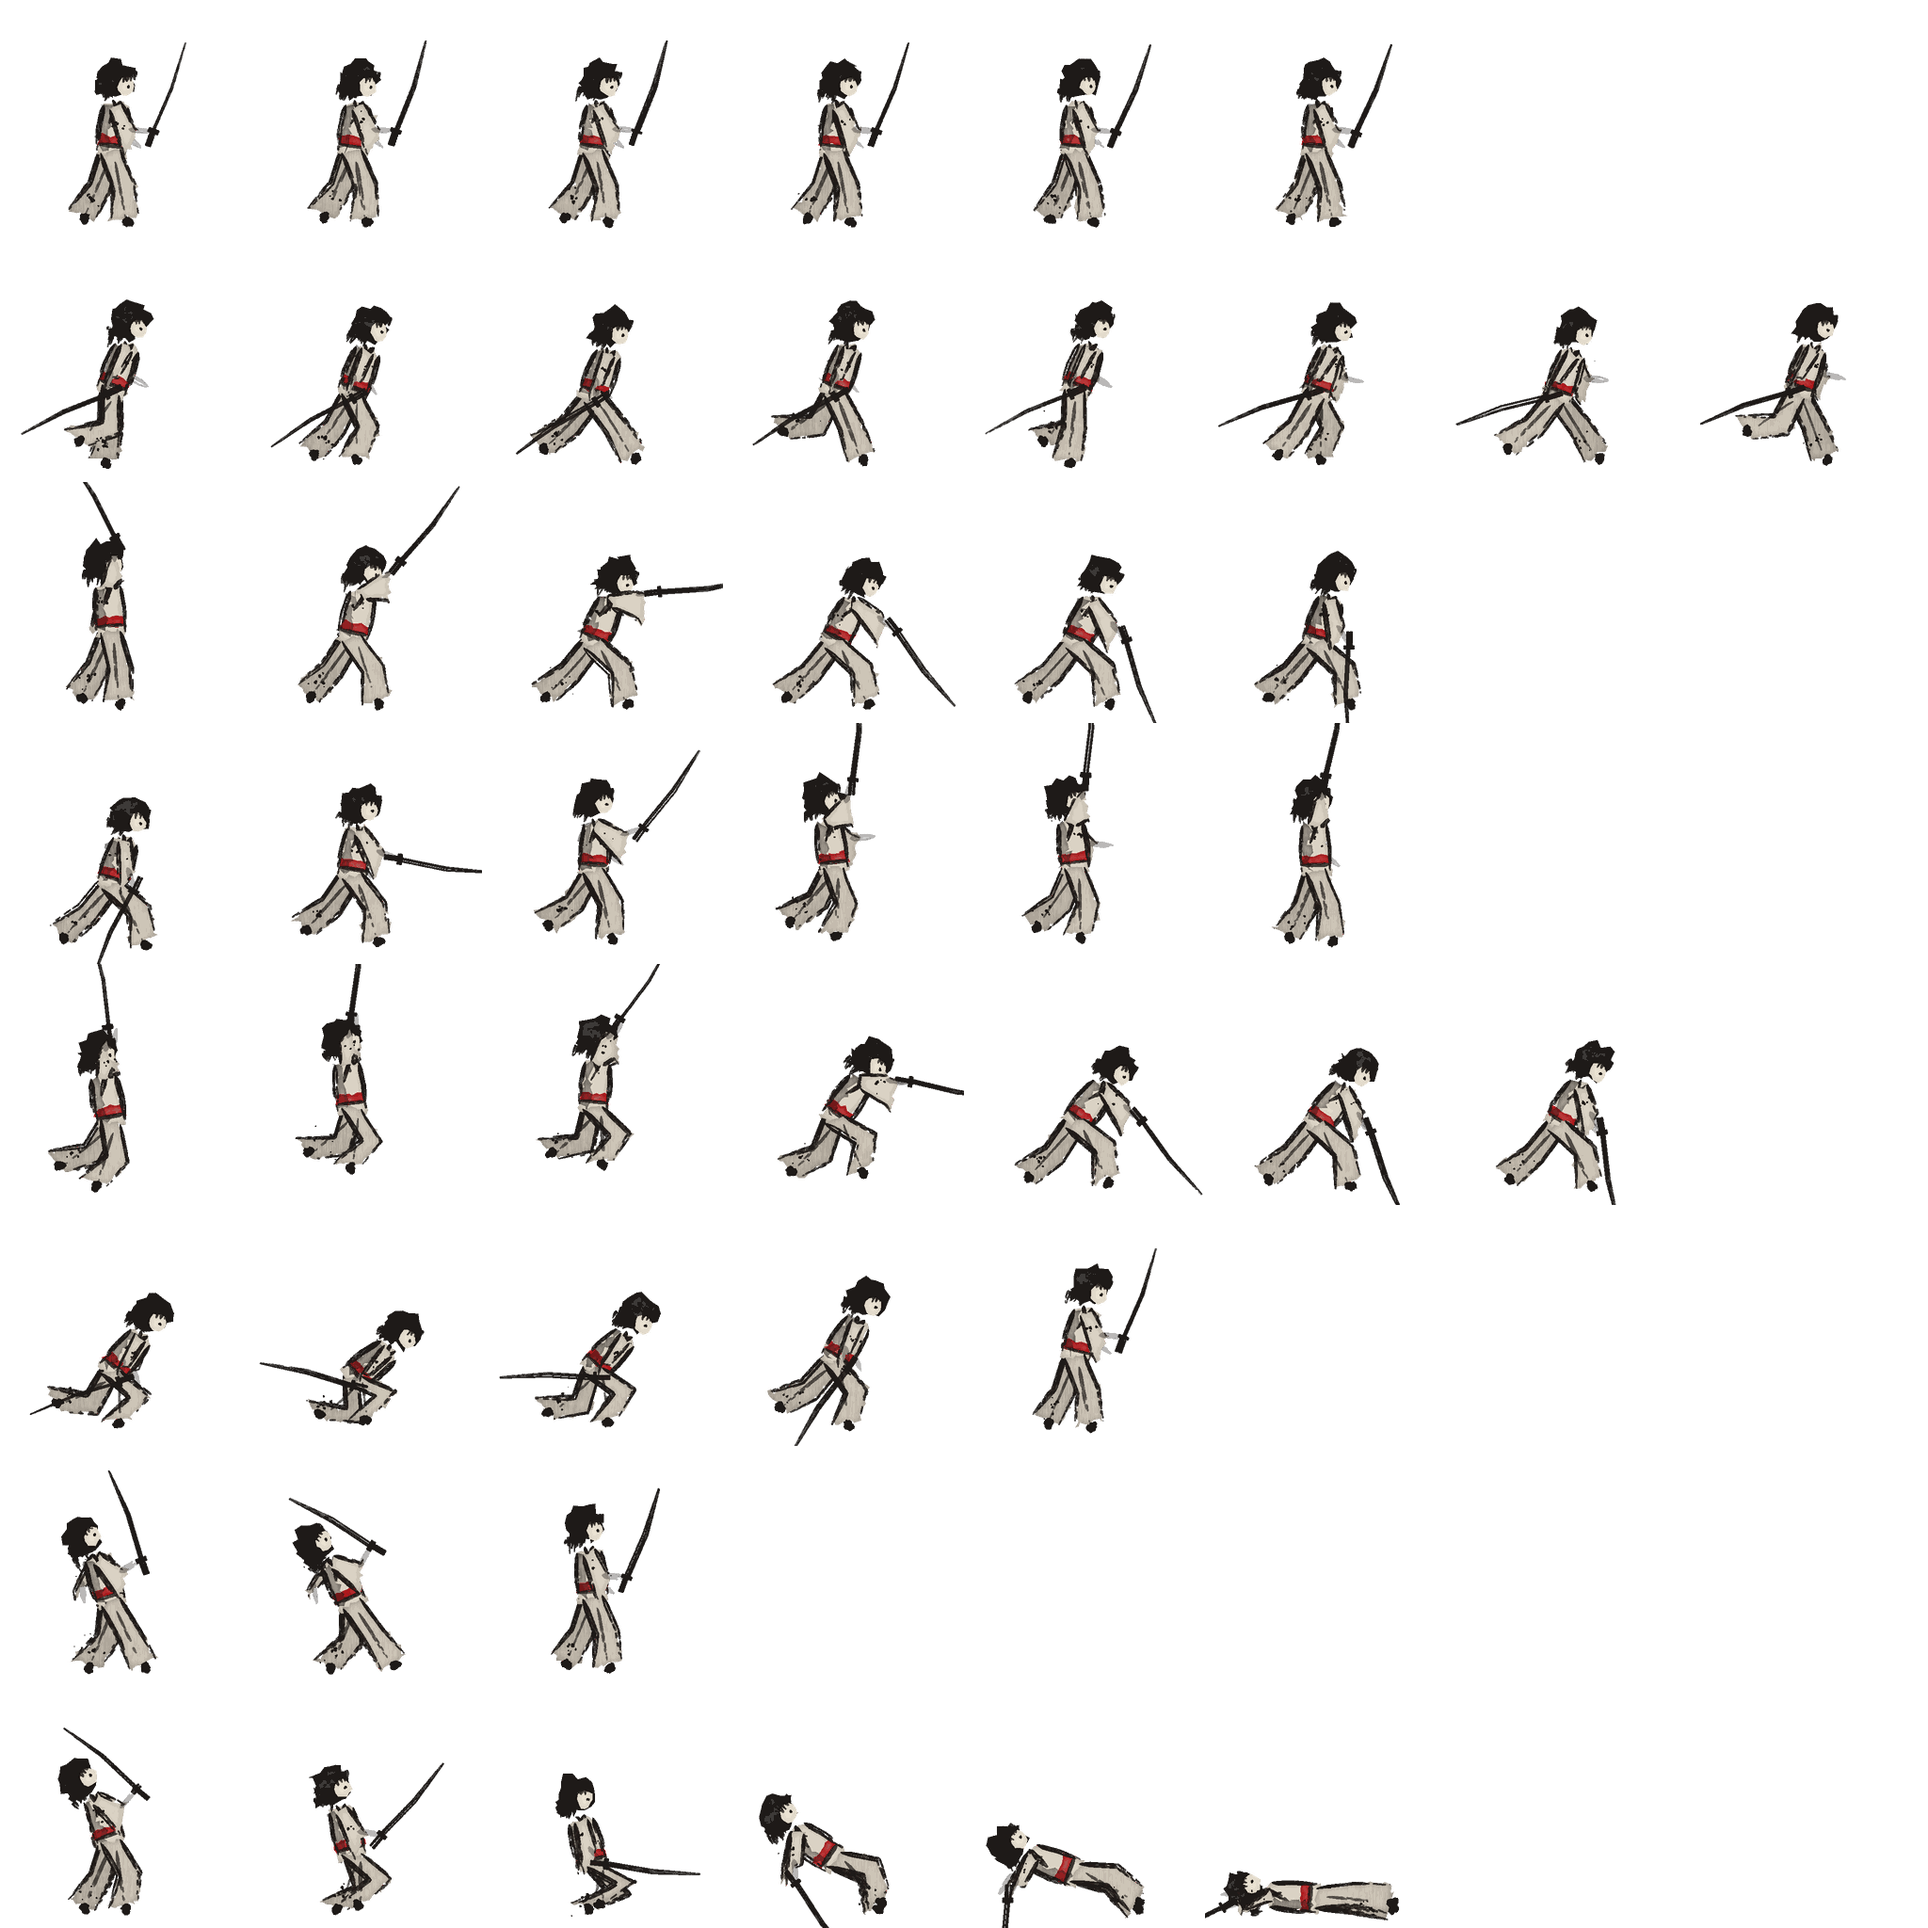
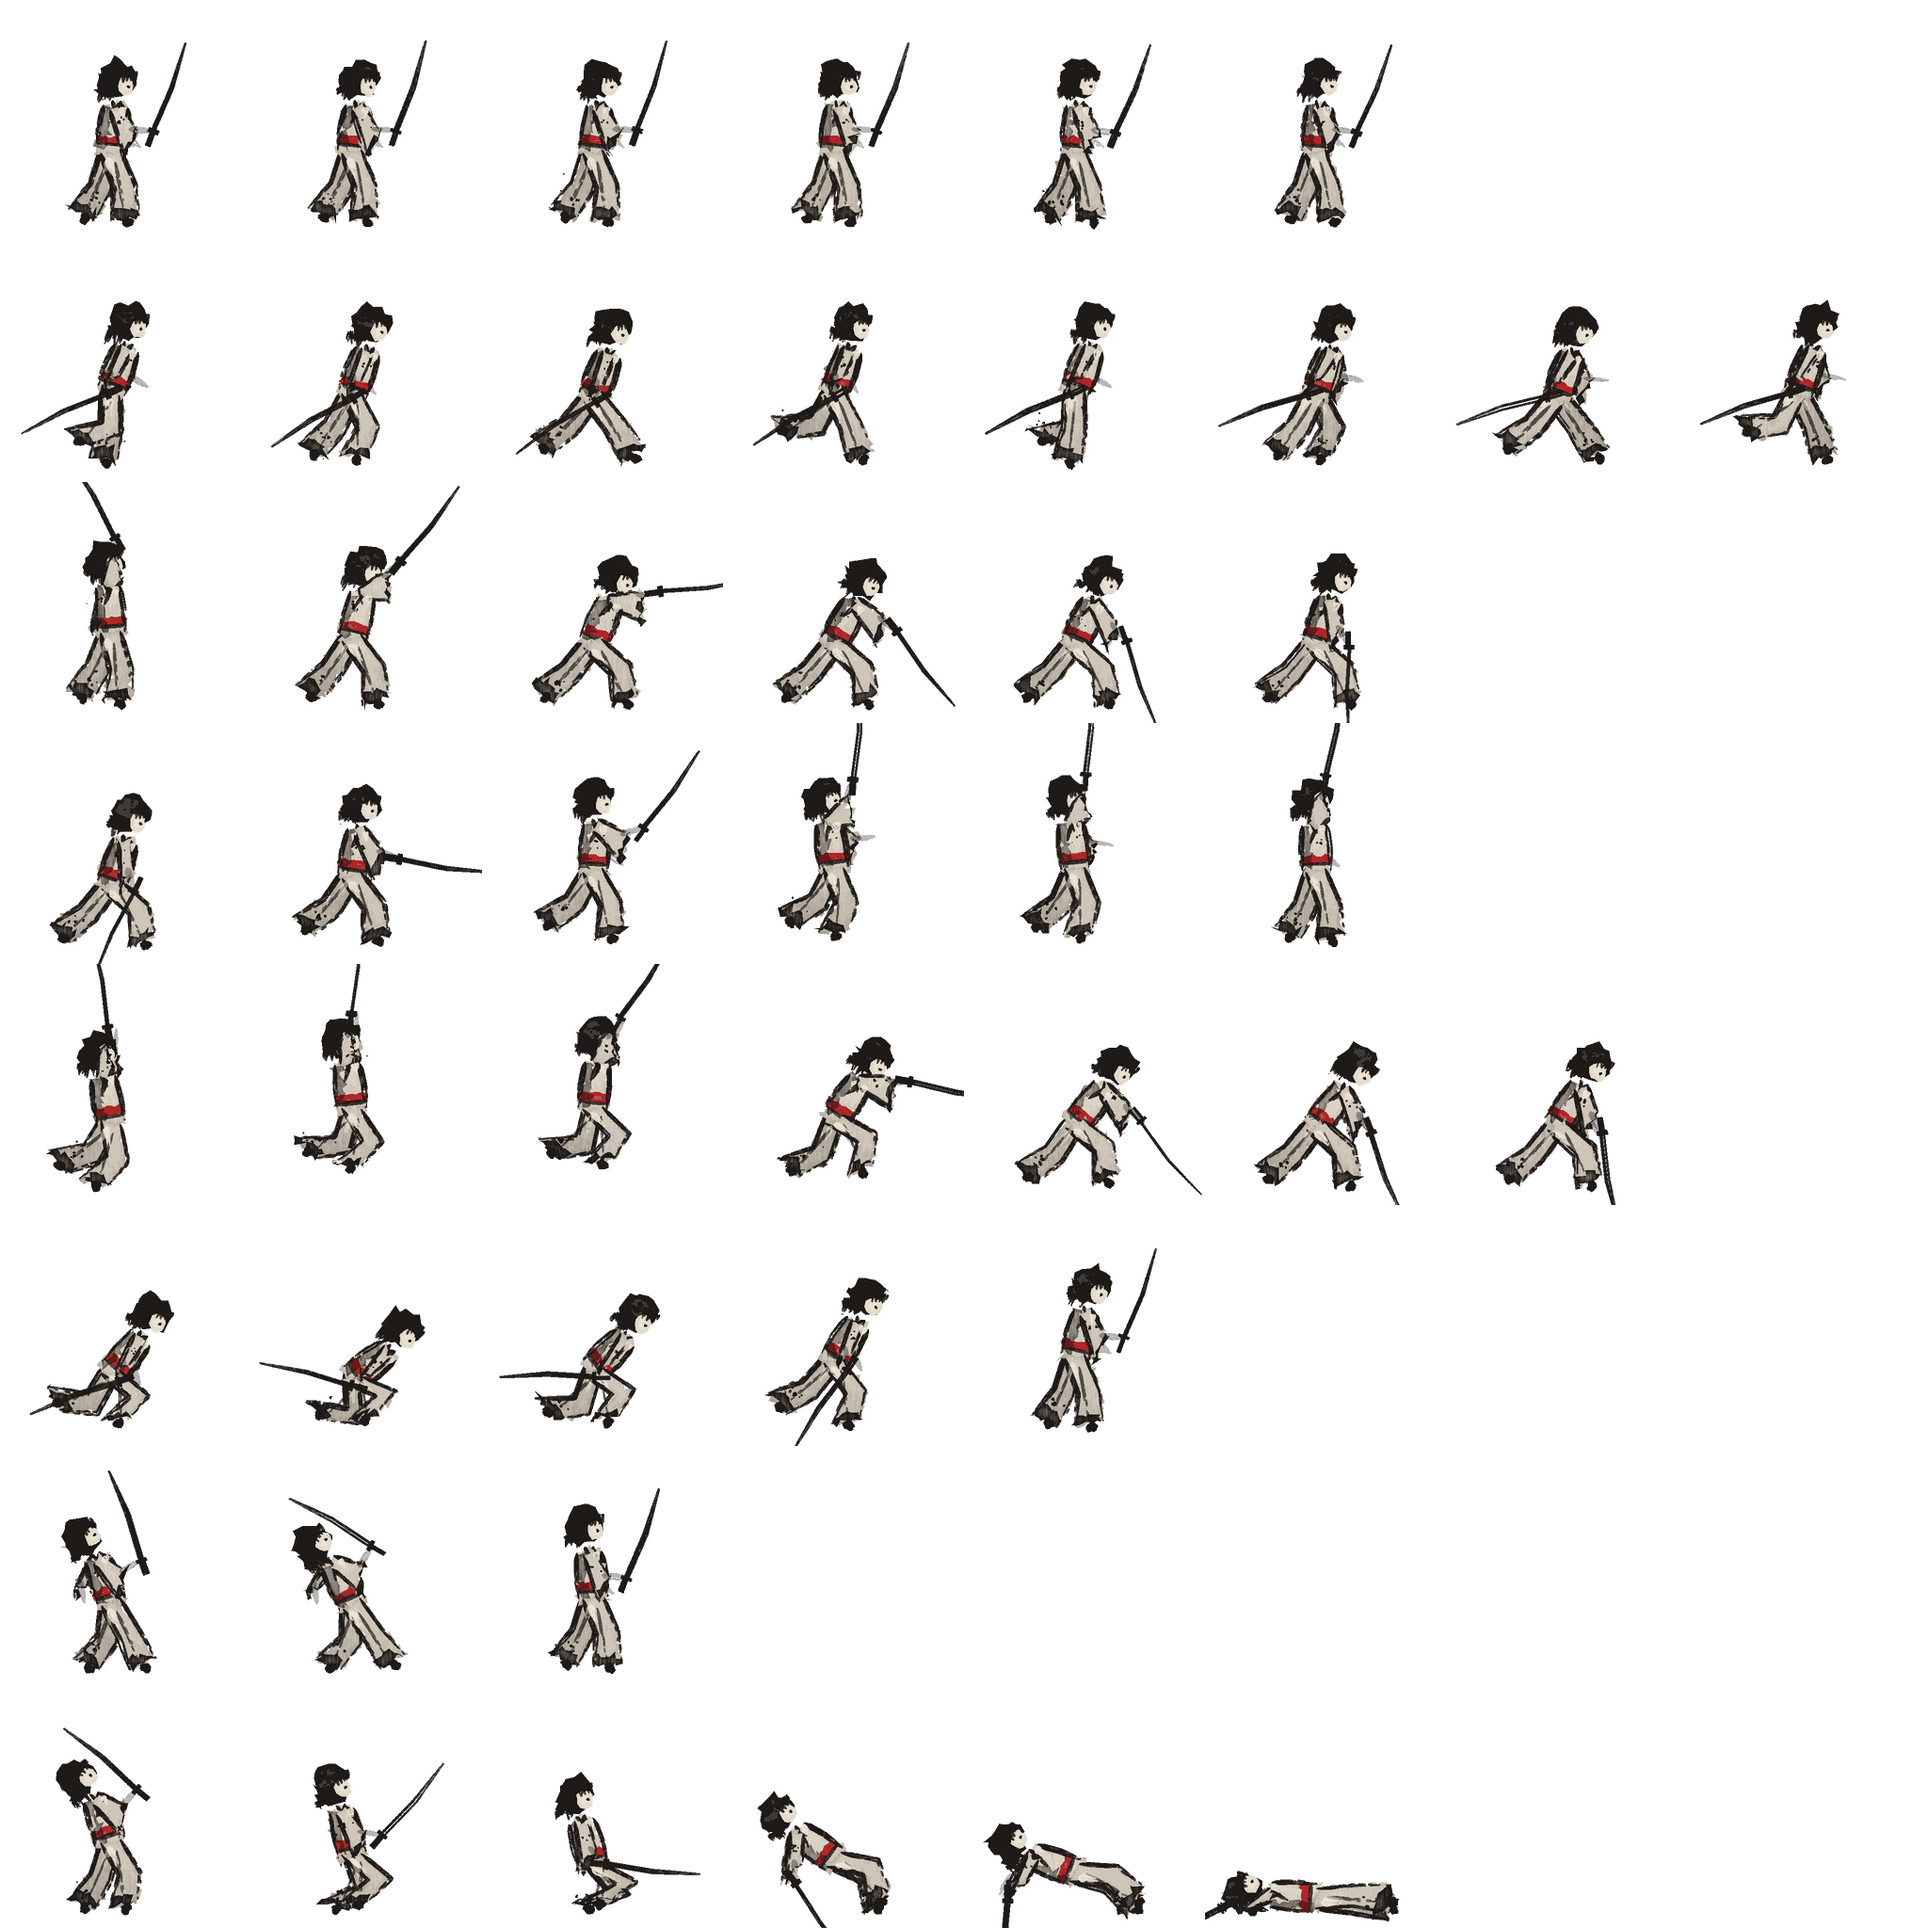
Godot take C35: player ink-wash rebake - pale wash + bold hem/cuff accents, dry paper highlights, streaky wet edges (brush grad + fill strokes)

diff --git a/godot/tools/figures.py b/godot/tools/figures.py
@@ -107,8 +107,8 @@ def draw_player(c, J, pose):
     hipL = J['hip'] + n * 15 * tw; hipR = J['hip'] - n * 15 * tw
     shL = J['sh'] + n * 13 * tw; shR = J['sh'] - n * 13 * tw
     body = [tuple(shL), tuple(J['neck'] + n * 4), tuple(shR), tuple(hipR + (hipR - shR) * 0.1), tuple(hipL + (hipL - shL) * 0.1)]
-    c.wash(body, dens=0.2, edge=0.6, layer='fill', rag=1.2)
-    c.wash([tuple(shR), tuple(lerp(shR, hipR, 0.9)), tuple(lerp(J['hip'], hipR, 0.3)), tuple(lerp(J['sh'], shR, 0.4))], dens=0.35, edge=0.2, rag=2, texture=0.6, streak_dir=1)
+    c.wash(body, dens=0.3, edge=0.45, layer='fill', rag=1.8, texture=0.6, streak_dir=1, grad=0.25)
+    c.wash([tuple(shR), tuple(lerp(shR, hipR, 0.9)), tuple(lerp(J['hip'], hipR, 0.3)), tuple(lerp(J['sh'], shR, 0.4))], dens=0.45, edge=0.2, rag=2.2, texture=0.7, streak_dir=1)
     c.stroke([tuple(shL), tuple(lerp(shL, hipL, 0.5) + n * 1.5), tuple(hipL)], w=3.6, dry=0.6)
     c.stroke([tuple(shR), tuple(lerp(shR, hipR, 0.5) - n * 1.5), tuple(hipR)], w=3.2, dry=0.7)
     if not back:
@@ -171,9 +171,13 @@ def draw_player(c, J, pose):
         if ay > 0.3:
             c.dab(*(fc - np.array([4.5, 2]) + fwd * 1), 1.3, ink=0.9)
     # front arm sleeve
-    draw_sleeve(c, J['f_sh'], J['f_el'], J['f_hand'], 0.24)
+    draw_sleeve(c, J['f_sh'], J['f_el'], J['f_hand'], 0.3)
     # hand
     c.dab(*J['f_hand'], 3.2, ink=0.25)
+    # dry paper highlights riding the wash (reference figures keep bare-paper streaks)
+    c.stroke([tuple(J['sh'] + n * 8), tuple(lerp(J['sh'], J['chest'], 0.7) + n * 9)], w=5.0, dry=0.8, taper=(0.1, 0.7), layer='fill')
+    c.stroke([tuple(lerp(J['hip'], J['f_knee'], 0.15) + perp(J['hip'], J['f_foot']) * 6), tuple(lerp(J['hip'], J['f_knee'], 0.75) + perp(J['hip'], J['f_foot']) * 7)], w=5.0, dry=0.9, taper=(0.15, 0.7), layer='fill')
+    c.stroke([tuple(lerp(J['hip'], J['b_knee'], 0.2)), tuple(lerp(J['hip'], J['b_knee'], 0.7))], w=4.0, dry=0.85, taper=(0.15, 0.7), layer='fill', ink=0.6)
     # wet-ink spatter clinging to the silhouette (reference figures are splashed, not clean)
     c.splatter(*(lerp(J['hip'], J['b_foot'], 0.7)), 10, 7, 2.2, ink=0.9)
     c.splatter(*(lerp(J['sh'], J['b_el'], 0.6)), 8, 5, 1.8, ink=0.9)
@@ -196,7 +200,9 @@ def draw_sleeve(c, sh, el, hand, shade):
     e2 = el - perp(sh, el) * 8 + drop * 4
     h2 = lerp(el, hand, 0.35)
     poly = [tuple(s1), tuple(e1), tuple(e1 + drop * 6 + (h2 - el) * 0.4), tuple(h2), tuple(e2), tuple(s2)]
-    c.wash(poly, dens=shade, edge=0.45, layer='fill', rag=1.4)
+    c.wash(poly, dens=min(0.9, shade + 0.08), edge=0.4, layer='fill', rag=2.0, texture=0.6, streak_dir=1, grad=0.2)
+    # bold dark cuff accent (reference: near-black shapes at the cuffs)
+    c.wash([tuple(e1), tuple(e1 + drop * 6 + (h2 - el) * 0.4), tuple(h2), tuple(lerp(e1, h2, 0.45) - drop * 4)], dens=0.85, edge=0.3, rag=2.2, texture=0.5, streak_dir=1)
     c.stroke([tuple(s1), tuple(e1), tuple(e1 + drop * 6 + (h2 - el) * 0.4)], w=3.0, dry=0.65)
     c.stroke([tuple(s2), tuple(e2), tuple(h2)], w=2.4, dry=0.75)
     c.stroke([tuple(el), tuple(hand)], w=4.0, ink=0.35, dry=0.5)
@@ -205,7 +211,9 @@ def draw_hakama_leg(c, hip, knee, foot, shade):
     n = perp(hip, foot)
     a = hip; b = knee; f = foot
     poly = [tuple(a + n * 11), tuple(b + n * 12), tuple(f + n * 15 + np.array([0, -6])), tuple(f - n * 15 + np.array([0, -6])), tuple(b - n * 11), tuple(a - n * 10)]
-    c.wash(poly, dens=shade, edge=0.5, layer='fill', rag=1.5, streak_dir=1)
+    c.wash(poly, dens=shade, edge=0.45, layer='fill', rag=1.9, texture=0.6, streak_dir=1, grad=0.22)
+    # bold dark hem accent (reference: near-black dry-brush shapes at the hakama hem)
+    c.wash([tuple(lerp(b, f, 0.55) + n * 13), tuple(f + n * 15 + np.array([0, -6])), tuple(f - n * 15 + np.array([0, -6])), tuple(lerp(b, f, 0.6) - n * 6)], dens=0.85, edge=0.3, rag=2.2, texture=0.55, streak_dir=1)
     c.stroke([tuple(a + n * 11), tuple(b + n * 12), tuple(f + n * 15 + np.array([0, -6]))], w=3.4, dry=0.6)
     c.stroke([tuple(a - n * 10), tuple(b - n * 11), tuple(f - n * 15 + np.array([0, -6]))], w=2.6, dry=0.75)
     # pleat

diff --git a/godot/tools/brush.py b/godot/tools/brush.py
@@ -44,7 +44,7 @@ class Canvas:
                 out.append((p[0] + self.rng.normal(0, amt), p[1] + self.rng.normal(0, amt)))
         return out
 
-    def wash(self, poly, dens=0.5, edge=0.35, rag=1.6, texture=0.45, layer='ink', streak_dir=None):
+    def wash(self, poly, dens=0.5, edge=0.35, rag=1.6, texture=0.45, layer='ink', streak_dir=None, grad=0.0):
         m = self._mask(self._jitter(poly, rag))
         if m.max() == 0: return
         blur = np.asarray(Image.fromarray((m * 255).astype(np.uint8)).filter(ImageFilter.GaussianBlur(3 * self.ss)), np.float32) / 255
@@ -52,6 +52,7 @@ class Canvas:
         tex = 1 - texture + texture * (self.noise * 0.6 + self.grain * 0.4) * 1.4
         if streak_dir is not None:
             tex = tex * (0.75 + 0.5 * self.streak)
+            rim = rim * (0.55 + 0.9 * self.streak)  # dry-brush breakup along the wet edge
         d = np.clip(m * (dens * tex + edge * rim), 0, 1)
         if layer == 'ink':
             self.ink = 1 - (1 - self.ink) * (1 - d)
@@ -61,7 +62,13 @@ class Canvas:
             self.fill = np.maximum(self.fill, m)
             self.ink *= (1 - m)  # light fill covers ink below it
             self.red *= (1 - m)
-            self.fillshade = self.fillshade * (1 - m) + m * np.clip(dens * tex + edge * rim * 0.6, 0, 1)
+            shade = np.clip(dens * tex + edge * rim * 0.6, 0, 1)
+            if grad:
+                rows = np.where(m.max(axis=1) > 0.01)[0]
+                if len(rows) > 1:
+                    yy = np.clip((np.arange(self.S)[:, None] - rows[0]) / max(1, rows[-1] - rows[0]), 0, 1)
+                    shade = np.clip(shade + grad * (yy - 0.5) * m, 0, 1)
+            self.fillshade = self.fillshade * (1 - m) + m * shade
 
     def stroke(self, pts, w=6, ink=0.95, dry=0.45, taper=(0.15, 0.35), layer='ink', press=1.0):
         """Bristle stroke along polyline pts (canvas px). dry = how much the brush runs out."""
@@ -103,6 +110,12 @@ class Canvas:
             self.ink = 1 - (1 - self.ink) * (1 - d)
         elif layer == 'red':
             self.red = np.maximum(self.red, d)
+        elif layer == 'fill':
+            # paper highlight: covers ink below, resets shading to bare paper
+            self.fill = np.maximum(self.fill, d)
+            self.ink *= (1 - d)
+            self.red *= (1 - d)
+            self.fillshade *= (1 - d)
 
     def dab(self, x, y, r, ink=0.9, rag=0.35, n=None):
         """Irregular blot."""
